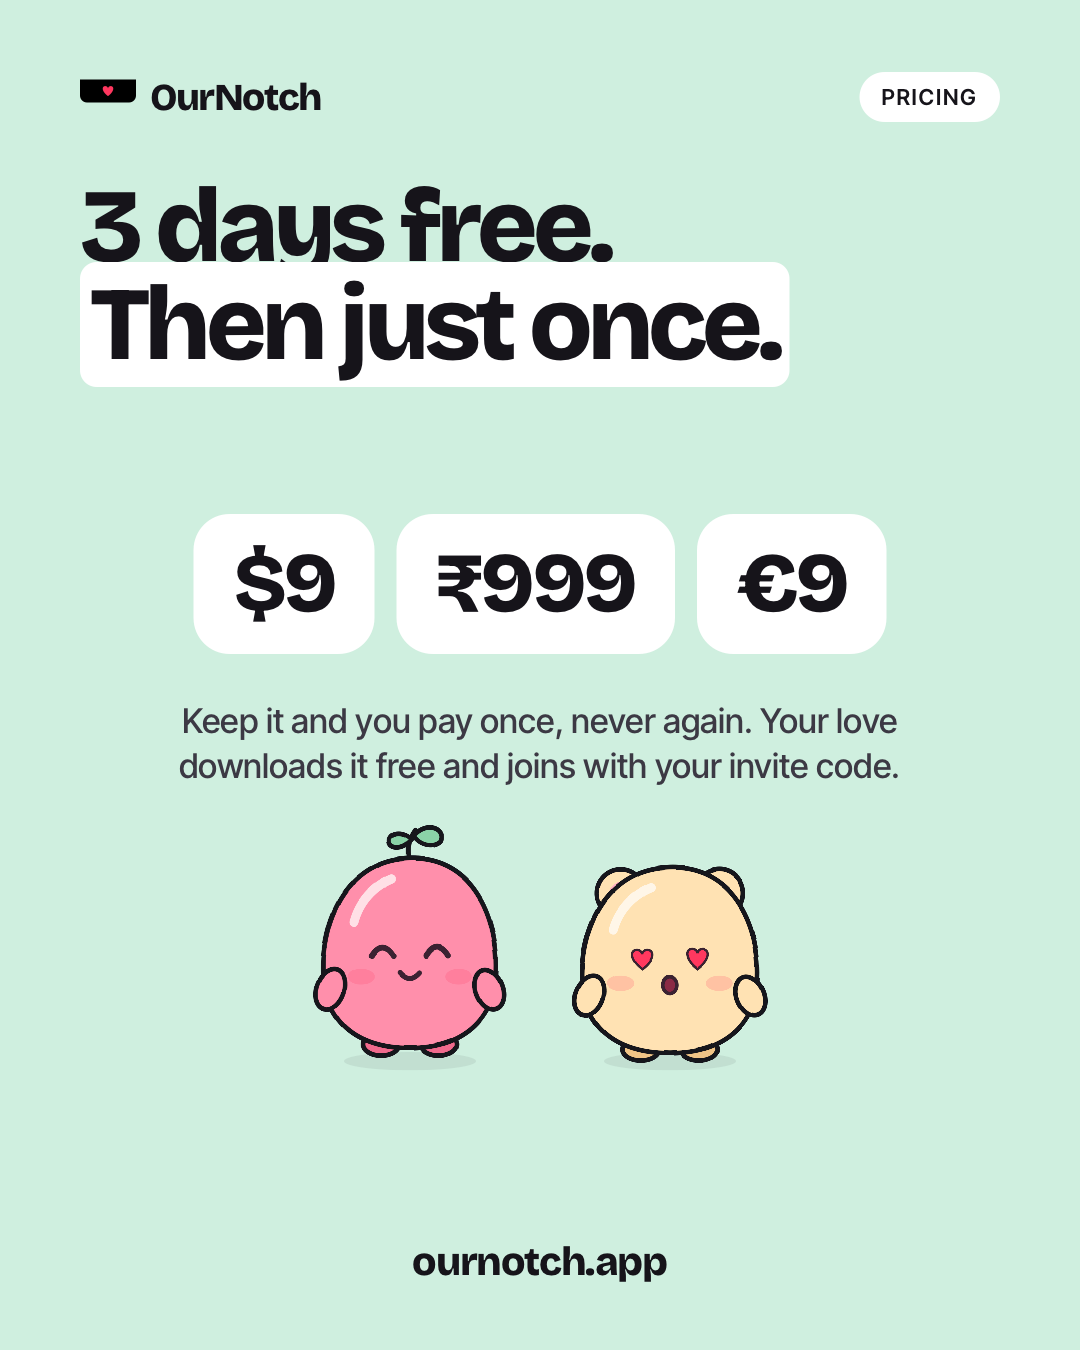
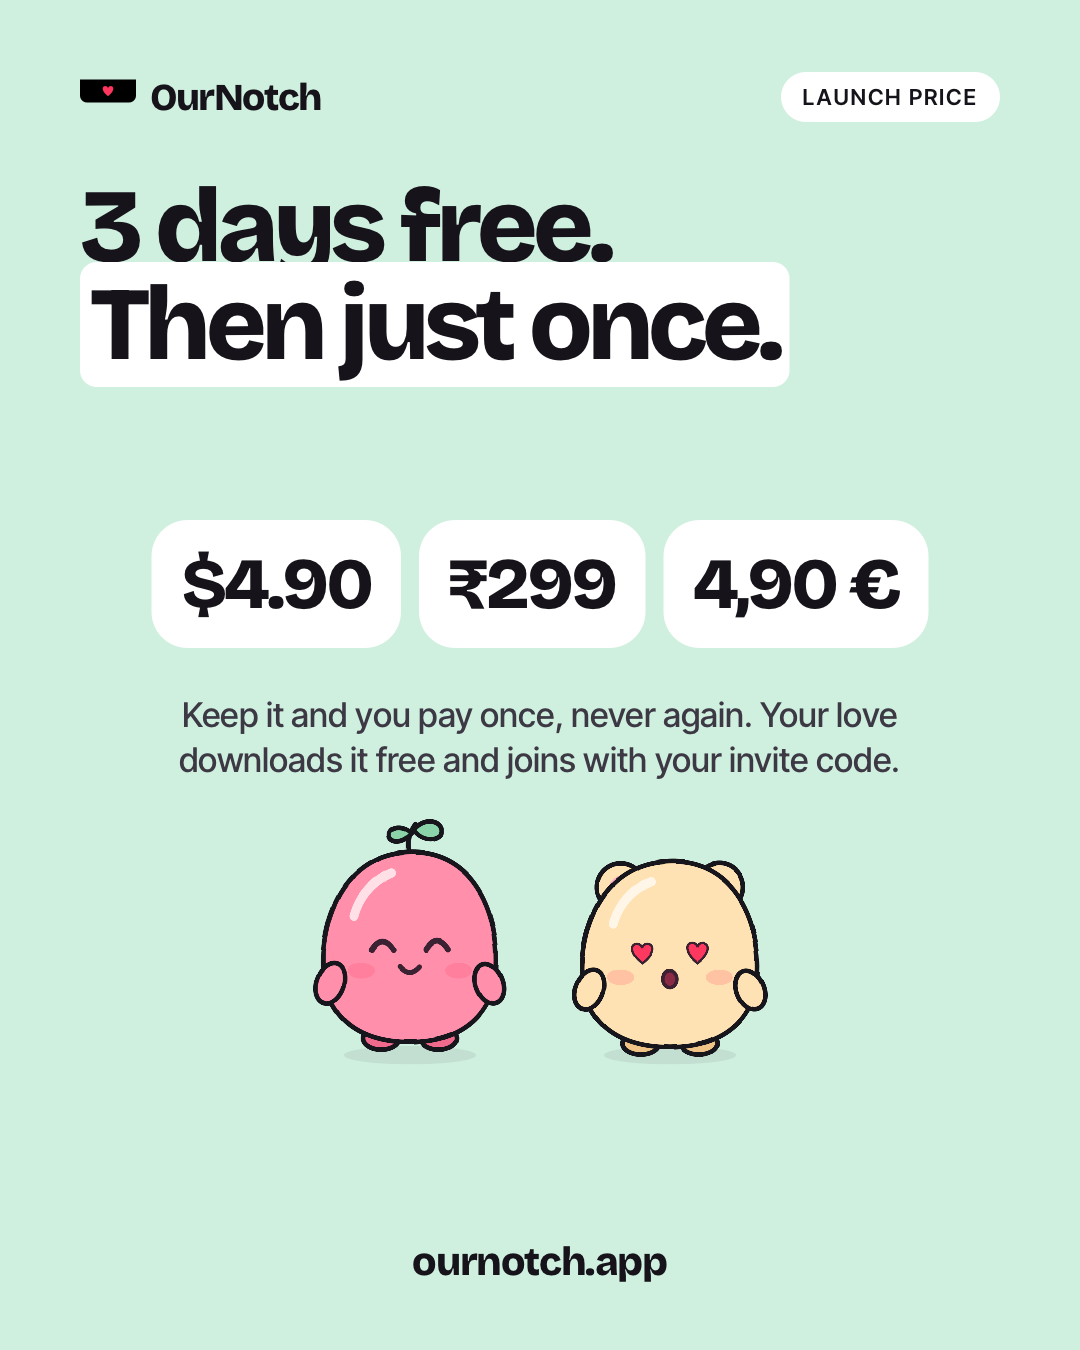
Instagram price card: launch price $4.90 / ₹299 / 4,90 €

diff --git a/website/app/(en)/social/page.tsx b/website/app/(en)/social/page.tsx
@@ -92,8 +92,8 @@ const CARDS: Record<string, () => React.ReactNode> = {
     </Frame>
   ),
   price: () => (
-    <Frame size="feed" bg="y-mint" kicker="Pricing" title={<>3 days free.<br /><em>Then just once.</em></>}>
-      <div className="s-prices"><span>$9</span><span>₹999</span><span>€9</span></div>
+    <Frame size="feed" bg="y-mint" kicker="Launch price" title={<>3 days free.<br /><em>Then just once.</em></>}>
+      <div className="s-prices"><span>$4.90</span><span>₹299</span><span>4,90 €</span></div>
       <p className="s-body">Keep it and you pay once, never again. Your love downloads it free and joins with your invite code.</p>
       <div className="s-pals"><Char kind="pip" className="is-happy" /><Char kind="bun" className="is-love" /></div>
     </Frame>
@@ -169,7 +169,7 @@ export default async function Social({ searchParams }: { searchParams: Promise<{
         .s-polas .b-shot .char{width:150px}
         .s-list{display:grid;gap:26px;width:100%}.s-list>div{display:flex;gap:26px;align-items:flex-start;background:#fff;border-radius:32px;padding:30px 34px}
         .s-list span{font-size:56px;line-height:1}.s-list b{font:800 38px var(--disp);letter-spacing:-.03em}.s-list p{margin:6px 0 0;font:500 26px/1.35 var(--body);color:var(--ink3)}
-        .s-prices{display:flex;gap:22px}.s-prices span{background:#fff;border-radius:36px;padding:28px 40px;font:800 84px/1 var(--disp);letter-spacing:-.05em}
+        .s-prices{display:flex;gap:18px}.s-prices span{background:#fff;border-radius:36px;padding:28px 30px;font:800 72px/1 var(--disp);letter-spacing:-.05em;white-space:nowrap}
         .s-demo{width:100%;margin-top:120px}.s-demo-story{margin-top:200px}
         .s-hero .s-title{font-size:92px;margin-top:48px}.s-hero .s-art{gap:64px}.s-hero .s-pals .char{width:290px}
         .s-small{bottom:-60px}.s-small .char{width:170px}
